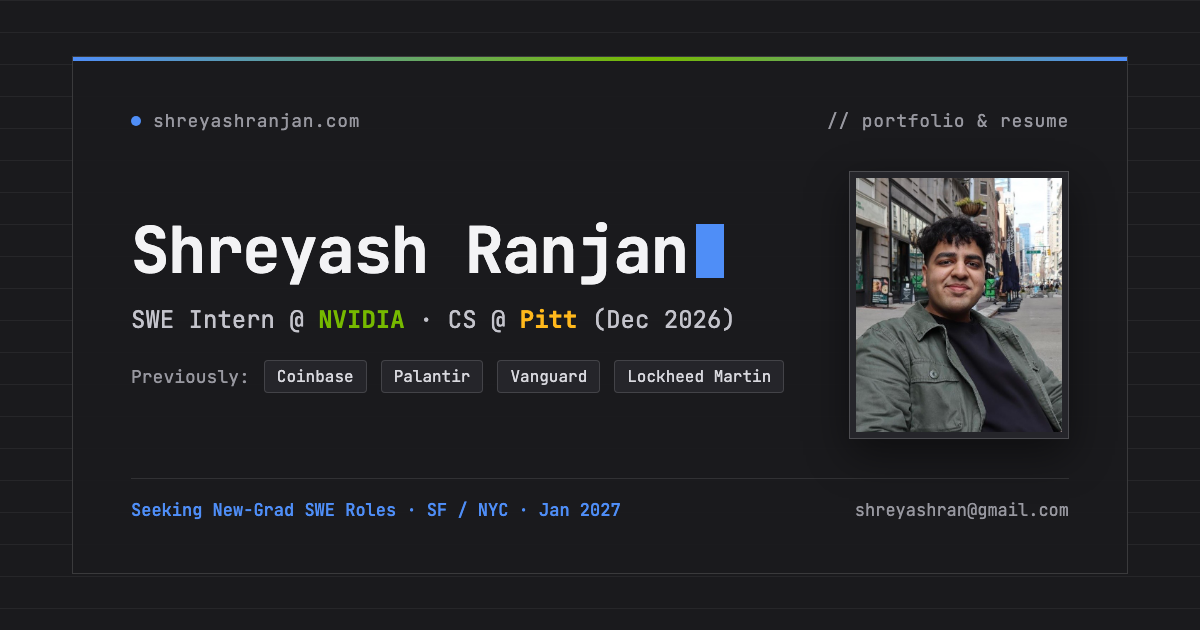
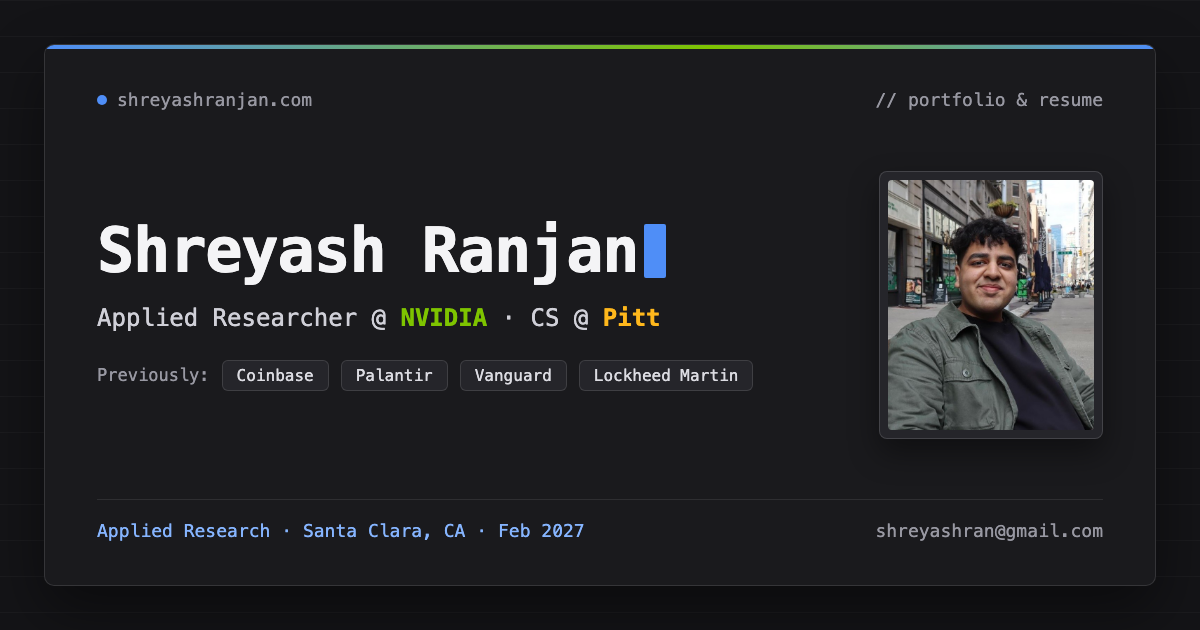
Update og-preview.png to Applied Researcher @ NVIDIA and bust OG image cache

diff --git a/index.html b/index.html
@@ -23,7 +23,7 @@
 <!-- Open Graph / Social Media Preview -->
 <meta property="og:title" content="Shreyash Ranjan - Applied Researcher" />
 <meta property="og:description" content="Incoming Applied Researcher @ NVIDIA · CS @ Pitt (Dec 2026). Previously Coinbase, Palantir, Vanguard, and Lockheed Martin. Started coding professionally at 16." />
-<meta property="og:image" content="https://shreyashranjan.com/assets/images/og-preview.png" />
+<meta property="og:image" content="https://shreyashranjan.com/assets/images/og-preview.png?v=2" />
 <meta property="og:image:width" content="1200" />
 <meta property="og:image:height" content="630" />
 <meta property="og:image:alt" content="Shreyash Ranjan — Applied Researcher portfolio card" />
@@ -34,7 +34,7 @@
 <meta name="twitter:card" content="summary_large_image" />
 <meta name="twitter:title" content="Shreyash Ranjan - Applied Researcher" />
 <meta name="twitter:description" content="Incoming Applied Researcher @ NVIDIA · CS @ Pitt (Dec 2026). Previously Coinbase, Palantir, Vanguard, and Lockheed Martin. Started coding professionally at 16." />
-<meta name="twitter:image" content="https://shreyashranjan.com/assets/images/og-preview.png" />
+<meta name="twitter:image" content="https://shreyashranjan.com/assets/images/og-preview.png?v=2" />
 
 <link rel="icon" type="image/svg+xml" href="assets/images/terminal-favicon.svg" />
 <link rel="icon" type="image/png" sizes="32x32" href="assets/images/favicon-32.png" />
